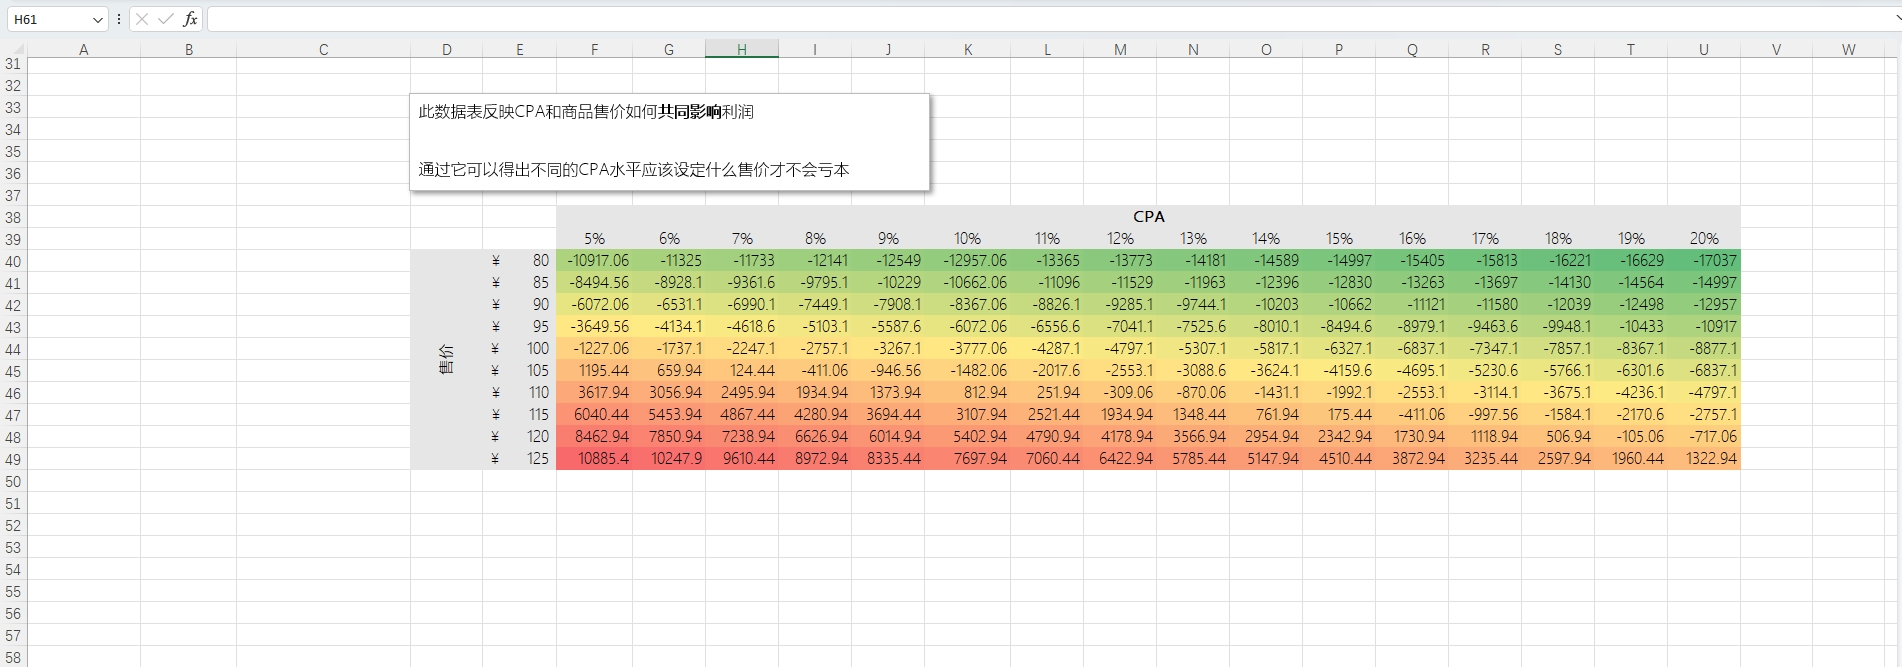
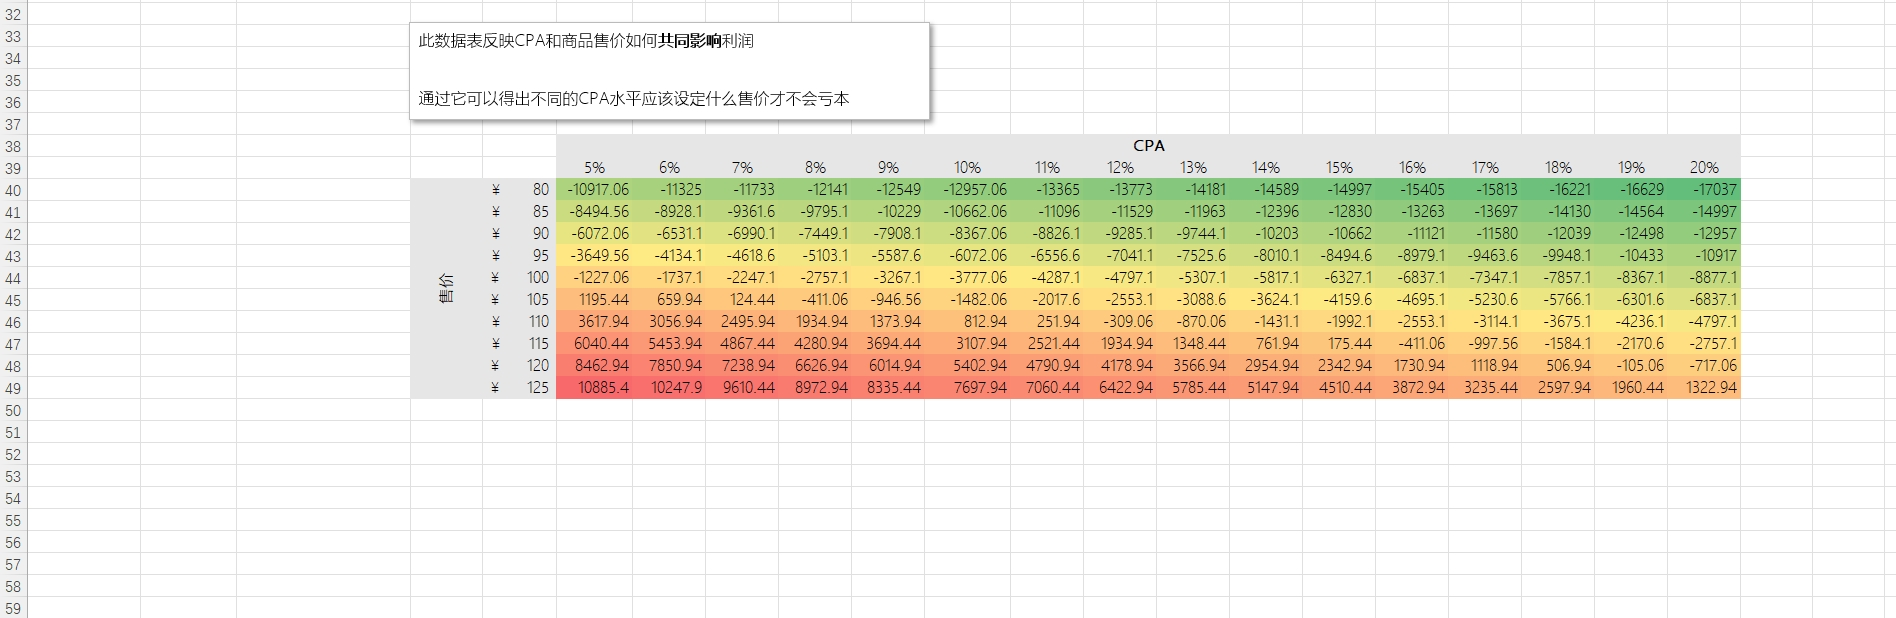
fix

diff --git a/index.html b/index.html
@@ -3,25 +3,22 @@
   <head>
     <meta charset="UTF-8" />
     <meta name="viewport" content="width=device-width, initial-scale=1.0" />
-    <title>Document</title>
+    <title>亚马逊销售数据分析</title>
     <style>
       * {
         margin: 0;
         padding: 0;
       }
-      .pic {
-        height: 100vh;
-        display: flex;
-        justify-content: center;
-        align-items: center;
-      }
+      /* .pic {
+        margin-top: 10vh;
+      } */
     </style>
   </head>
   <body>
-    <div class="pic pic1">
+    <div class="pic">
       <img src="./amazon1.png" alt="excel" />
     </div>
-    <div class="pic pic2">
+    <div class="pic">
       <img src="./amazon2.png" alt="excel" />
     </div>
   </body>
